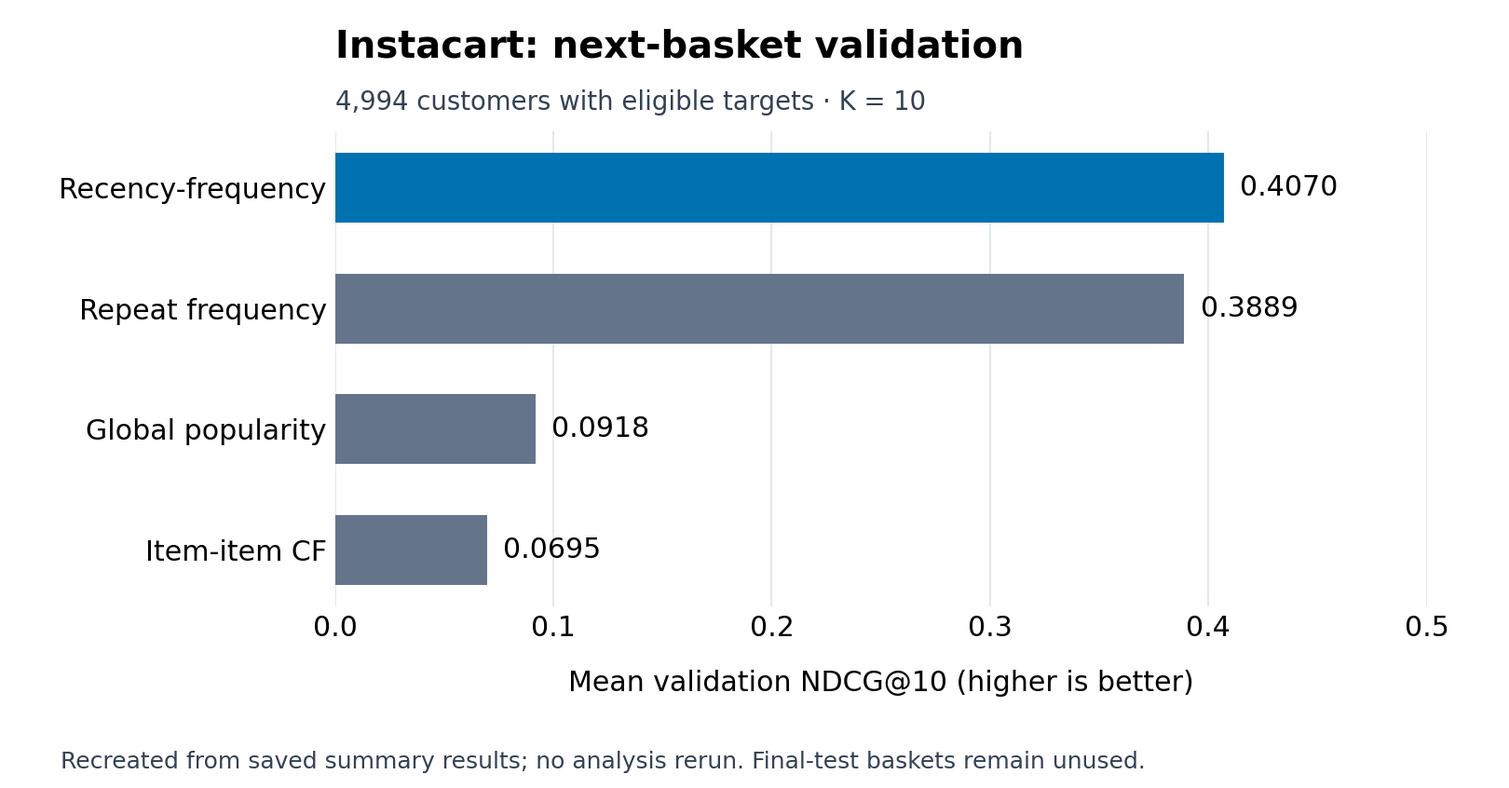
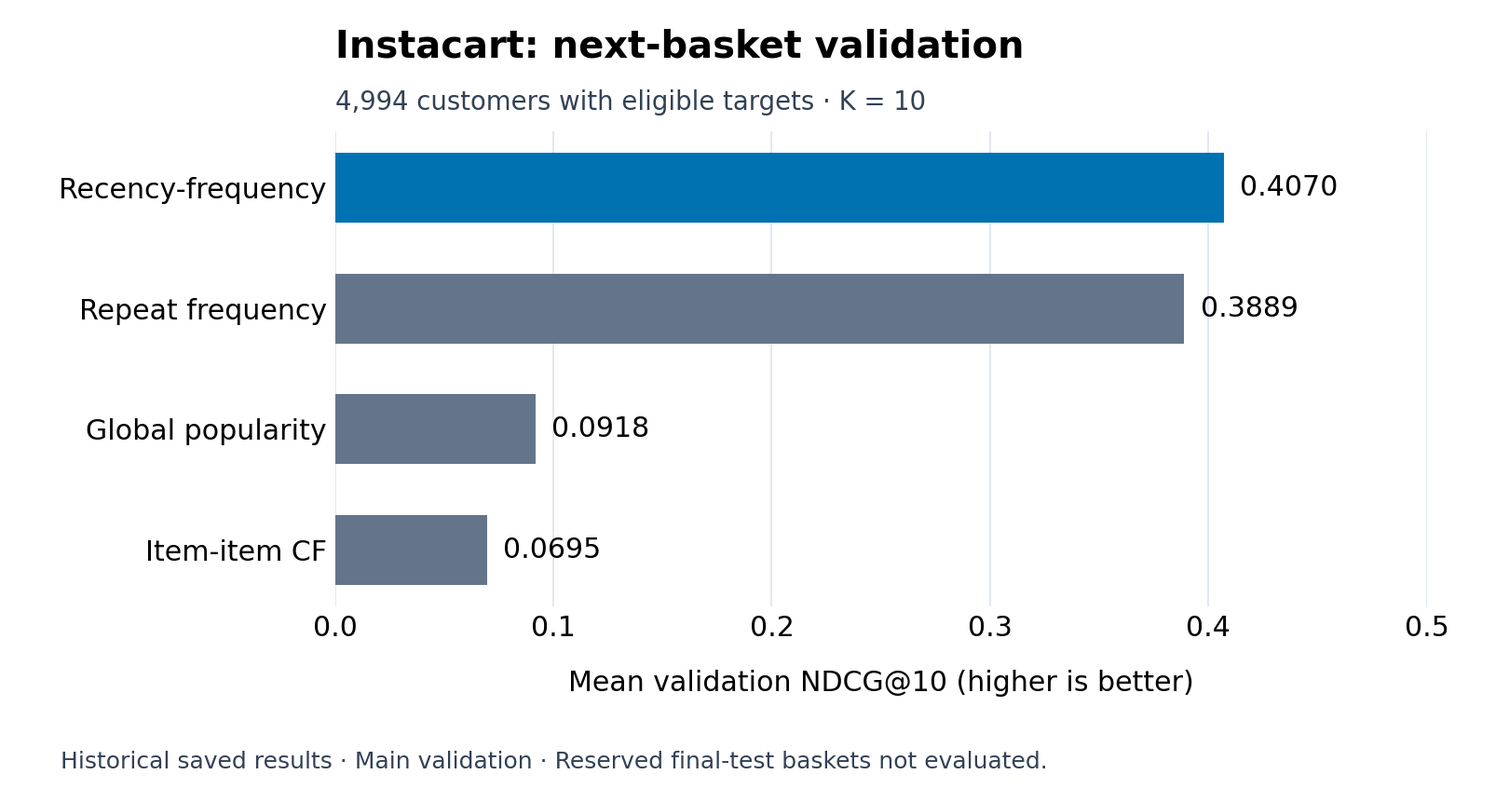
Apply execution verification and finalize research portfolio presentation

Changed region(s): [[0.0309, 0.9527, 0.7716, 0.9835]]

diff --git a/scripts/verify_analysis.py b/scripts/verify_analysis.py
@@ -1,0 +1,71 @@
+"""Execute existing notebook code cells in IPython, without a notebook server.
+
+Run from any directory: python scripts/verify_analysis.py instacart|telco-churn
+Requires the exact private CSVs documented in the project data READMEs.
+Local logs can contain source-row previews; never commit .verification/.
+"""
+import json
+import os
+from pathlib import Path
+import re
+import sys
+
+from IPython.core.interactiveshell import InteractiveShell
+from IPython.utils.capture import capture_output
+
+ROOT = Path(__file__).resolve().parents[1]
+
+
+def check_results(slug, records):
+    text = '\n'.join(r['stdout'] + '\n' + '\n'.join(r['display']) for r in records)
+    if slug == 'telco-churn':
+        expected = [r'Test AUC: 0\.831', r'\[\[904\s+129\]\s*\[169\s+205\]\]',
+                    r'Churned\s+0\.61\s+0\.55\s+0\.58\s+374']
+    else:
+        expected = [r'Selected lambda: 0\.25',
+                    r'0\.25\s+0\.2719\s+0\.3530\s+0\.2645\s+0\.4070\s+0\.3464',
+                    r'0\.00\s+0\.2594\s+0\.3359\s+0\.2518\s+0\.3889',
+                    r'Global popularity\s+0\.0668\s+0\.0685\s+0\.0602',
+                    r'NDCG@10: 0\.0918',
+                    r'Item-item minus recency-frequency NDCG: -0\.3375',
+                    r'95% interval: -0\.3455 to -0\.3296']
+    for pattern in expected:
+        if not re.search(pattern, text):
+            raise AssertionError(f'Result differs from published precision: {pattern}')
+
+
+def main(slug):
+    if slug not in ('instacart', 'telco-churn'):
+        raise SystemExit('Choose instacart or telco-churn')
+    filenames = (['Telco-Customer-Churn.csv'] if slug == 'telco-churn' else
+                 ['aisles.csv', 'departments.csv', 'order_products.csv', 'orders.csv', 'products.csv'])
+    for filename in filenames:
+        path = ROOT / 'projects' / slug / 'data' / filename
+        if not path.exists():
+            raise FileNotFoundError(f'Provide the exact source CSV: {path}')
+    project = ROOT / 'projects' / slug
+    os.chdir(project)
+    notebook = json.loads((project / 'analysis.ipynb').read_text())
+    shell = InteractiveShell.instance()
+    records = []
+    output = ROOT / '.verification'
+    output.mkdir(exist_ok=True)
+    for i, cell in enumerate(notebook['cells']):
+        if cell['cell_type'] != 'code':
+            continue
+        with capture_output() as cap:
+            result = shell.run_cell(''.join(cell['source']), store_history=False)
+        records.append({'cell': i, 'stdout': cap.stdout, 'stderr': cap.stderr,
+                        'display': [o.data.get('text/plain', '') for o in cap.outputs]})
+        (output / f'{slug}.json').write_text(json.dumps(records, indent=2))
+        if result.error_before_exec or result.error_in_exec:
+            raise RuntimeError(f'Cell {i} failed; inspect local .verification/{slug}.json')
+        print(f'{slug}: cell {i} passed', flush=True)
+    check_results(slug, records)
+    print(f'{slug}: all code cells passed; selected results match published precision.')
+
+
+if __name__ == '__main__':
+    if len(sys.argv) != 2:
+        raise SystemExit('Usage: python scripts/verify_analysis.py instacart|telco-churn')
+    main(sys.argv[1])

diff --git a/scripts/render_portfolio_figures.py b/scripts/render_portfolio_figures.py
@@ -52,7 +52,7 @@ def instacart_figure():
     ax.tick_params(axis='both', length=0)
     for spine in ax.spines.values():
         spine.set_visible(False)
-    fig.text(0.04, 0.025, 'Recreated from saved summary results; no analysis rerun. Final-test baskets remain unused.', fontsize=10, color='#334155')
+    fig.text(0.04, 0.025, 'Historical saved results · Main validation · Reserved final-test baskets not evaluated.', fontsize=10, color='#334155')
     fig.tight_layout(rect=(0.02, 0.07, 0.98, 1))
     target = ROOT / 'projects/instacart/figures/validation-ndcg.png'
     target.parent.mkdir(exist_ok=True)

diff --git a/projects/instacart/README.md b/projects/instacart/README.md
@@ -1,14 +1,18 @@
 # Instacart next-basket recommendations
 
-[Notebook with saved outputs](analysis.ipynb) · [Portfolio](../../README.md) · [Provenance](../../PROVENANCE.md)
+[Notebook with saved outputs](analysis.ipynb) · [Portfolio](../../README.md) · [Authorship](../../README.md#authorship-and-ai-assistance)
 
-## Question and study scope
+## Research Question
 
-Can purchase history support useful next-basket reminders, and can related products add discovery? This individual coursework project is a **validation study**, using five course-supplied tables: `aisles.csv`, `departments.csv`, `order_products.csv`, `orders.csv`, and `products.csv`. The exact upstream dataset release and course sampling procedure are not documented in the supplied package.
+Can purchase history support useful next-basket reminders, and can related products add discovery? This is a **validation study**.
+
+## Data
+
+The analysis uses five course-supplied tables: `aisles.csv`, `departments.csv`, `order_products.csv`, `orders.csv`, and `products.csv`. The exact upstream dataset release and course sampling procedure are not documented in the supplied package.
 
 The saved main split contains **5,000 customers**, **33,230 fitting orders**, **328,487 fitting product rows**, and **24,367 candidate products**. The target baskets contain 50,638 item occurrences, including 1,270 products absent from fitting history (counted as occurrences across baskets).
 
-## Design and metrics
+## Methods
 
 For each customer, the latest order labeled `prior` is the validation basket; earlier orders form the fitting history. Customers must have at least three fitting orders. Orders labeled `train` are reserved final-test baskets and remain unused. This is a within-customer time ordering, not a single calendar-date holdout.
 
@@ -24,18 +28,18 @@ A candidate product must appear somewhere in the fitting history. It can be new 
 
 Six customers have no eligible target products. Their ranking metrics are undefined and excluded, leaving **4,994 customers** for precision, eligible recall, F1, and NDCG. Their full-basket recall is zero, so all **5,000** remain in that average. These are customer averages; the repeat/discovery hit rates below instead pool item occurrences.
 
-## Methods and selection
+### Models and selection
 
 - **Global popularity:** rank products by the number of different fitting-history customers who bought them; use the same list for everyone.
 - **Repeat frequency:** rank a customer's previously purchased products by purchase count.
 - **Recency-frequency:** rank by `frequency × exp(−lambda × orders_since_last)`. The existing grid search selects **lambda=0.25** using validation NDCG@10; 0.30 is nearly tied.
 - **Item-item collaborative filtering:** use Jaccard overlap of fitting-history customer sets, requiring at least five shared purchasers and retaining up to 25 neighbors per product. Weight neighbors using the same frequency/recency rule. These fixed settings were not optimized.
 
-## Saved main validation results
+## Findings
 
 ![Validation NDCG at 10: recency-frequency 0.4070, repeat frequency 0.3889, global popularity 0.0918, and item-item CF 0.0695.](figures/validation-ndcg.png)
 
-*Figure recreated for this portfolio from the notebook's saved four-method comparison. No analysis was rerun; no uncertainty intervals are depicted.*
+*Validation NDCG@10, recreated from historical saved results; 4,994 customers with eligible targets. No uncertainty intervals are shown.*
 
 | Model | Precision@10 | Eligible recall@10 | F1@10 | NDCG@10 | Full-basket recall@10 |
 |---|---:|---:|---:|---:|---:|
@@ -46,7 +50,7 @@ Six customers have no eligible target products. Their ranking metrics are undefi
 
 The paired bootstrap resamples customer-level score differences with replacement (2,000 draws; seed 446), using the 2.5th and 97.5th percentiles. Recency-frequency's NDCG advantage over repeat frequency is **0.0181**, with a saved **95% interval of 0.0157–0.0205**, above the course practical margin of 0.01. These are conditional validation comparisons: the same validation data selected lambda, so the intervals do not account for model-selection uncertainty.
 
-## Sensitivity and discovery
+### Sensitivity and discovery
 
 The notebook checks K=5/10/15/20, nearby recency weights, short-list filling, history length, product popularity, and an earlier target basket. Recency-frequency leads the three baselines on the four ranking metrics at every tested K. At K=10, filling short lists changes its NDCG from 0.4070 to 0.4075.
 
@@ -54,24 +58,21 @@ The earlier-basket check rebuilds fitting histories one order earlier and keeps 
 
 Repeat purchases are products previously bought by the customer; discovery products are known in the fitting catalog but new to that customer. Recency-frequency recovers **50.76%** of repeat-purchase item occurrences and **0%** of discovery occurrences. The tested item-item model recovers **3.88%** of eligible discovery occurrences but substantially reduces overall ranking quality. Its NDCG difference from recency-frequency is **−0.3375** (saved 95% interval **−0.3455 to −0.3296**). This supports retaining the simpler restocking baseline for this study, not rejecting every collaborative-filtering method.
 
-## Limitations and future work
+## Limitations
 
 The sample and candidate rule constrain generalization. Personalized repeat rules cannot discover new-to-customer products, and no method can recommend products absent from fitting. Reusing validation customers for selection and comparison limits uncertainty claims. No deployment, intervention, or causal effect was evaluated.
 
-**Future work, not completed:** obtain the exact authorized files, reproduce the existing validation study, and design a final evaluation using the reserved baskets without tuning on them. No final-test result is reported here.
+**Future work, not completed:** design a final evaluation using the reserved baskets without tuning on them. No final-test result is reported here.
 
-## Reproduce
+## How to Run
 
-The exact CSV files were unavailable in the accessible local folders checked; this portfolio copy has not been executed end to end. See [data requirements](data/README.md). Do not substitute a public version and assume identical results.
-
-From the repository root, on macOS/Linux:
+Place the original course CSVs in this project's `data/` directory; see [required files](data/README.md). From the repository root, create an environment using the Python 3.12 version used for execution verification:
 
 ```bash
-python3 -m venv .venv
+python3.12 -m venv .venv
 source .venv/bin/activate
-python -m pip install -r projects/instacart/requirements.txt
-cd projects/instacart
-python -m jupyterlab analysis.ipynb
+python -m pip install -r requirements-tested.txt
+python scripts/verify_analysis.py instacart
 ```
 
-Place all five CSV files in `projects/instacart/data/` before opening Jupyter. The notebook's working directory must be `projects/instacart/`. Run cells from top to bottom only after checking authorization and source identity. Versions are unpinned and these setup commands are provided instructions, not a claim of successful execution.
+The script executes code cells through IPython without replacing notebook outputs. See [verification details](../../VERIFICATION.md) for checked results, local-log handling, and the unverified interactive Jupyter route.

diff --git a/PROVENANCE.md b/PROVENANCE.md
@@ -1,42 +1,24 @@
-# Provenance and verification
+# Provenance
 
-## Coursework sources
+These are individual coursework projects by Edwige Mpore Rwagasana. See the [authorship and AI disclosure](README.md#authorship-and-ai-assistance).
 
-**Edwige Mpore Rwagasana** completed these as individual coursework projects. Course scaffolding remains acknowledged; individual completion is not a claim of independently writing every line.
-
-| Project | Original source filename | Origin visible in the source |
+| Project | Source notebook | Coursework context |
 |---|---|---|
 | Instacart | `Instacart_Project_code.ipynb` | Course checkpoints, validation counts, and Jaccard examples |
-| Telco | `Edwige_Churn_Prediction_Assignment_1 (1).ipynb` | BUAI 435 assignment template and specified modeling workflow |
+| Telco | `Edwige_Churn_Prediction_Assignment_1 (1).ipynb` | BUAI 435 assignment template and modeling workflow |
 
-The exact extent of course-provided code and AI assistance during the original analyses still needs author clarification before application submission. Dataset filenames are documented in each project's `data/README.md`; the package does not establish the exact upstream releases or redistribution rights.
+## Presentation
 
-## Presentation changes
+Local `data/` paths replace the original Drive setup. Student identifiers, interactive display metadata, installation logs, and source-row previews were removed from sharing copies. The reports omit grading instructions and completed placeholders, use consistent headings, and explain evaluation metrics and selected GLM coefficients.
 
-Initial sharing preparation replaced Drive setup and input paths with local `data/` paths, removed identity and interactive display metadata, and cleared setup/loader outputs containing logs or source-row previews. It retained analytical code and text/PNG results and supplied documentation and unpinned dependency lists. The initial upload added missing introductory cell IDs.
+Analytical code, model settings, and historical numerical outputs are preserved. The Instacart figure uses saved NDCG results; the Telco figure is the original saved ROC image. The presentation script regenerates these figures without executing the analyses:
 
-This polish pass rewrote project guides and notebook summaries, removed grading/submission instructions and completed comment-only placeholders, corrected headings, and added explanations of validation denominators and saved GLM coefficients. It removed private Drive identifiers and unrelated selection history from documentation. No executable analysis code, model settings, numerical outputs, or existing output images were changed in this pass.
+```bash
+python scripts/render_portfolio_figures.py
+```
 
-The Instacart chart was recreated from saved four-method NDCG@10 results; the Telco ROC PNG was extracted unchanged from its saved output. `python scripts/render_portfolio_figures.py` regenerates these presentation assets without executing either notebook. No new model or experiment was added.
+## Data and verification
 
-## AI assistance
+The exact upstream dataset releases and redistribution rights are not established. Raw data are excluded; no redistribution license is asserted over source data or course material. Each project's data README lists the required filenames.
 
-AI assisted with source review, documentation, notebook presentation, results-figure preparation, and repository checks. Original-analysis assistance and the division between course scaffolding and the author's code require the clarification noted above. Added coefficient interpretations summarize saved estimates, not a newly fitted model.
-
-## Verification performed during this update
-
-- Reviewed methods, sample counts, metrics, and selected coefficient estimates against code and historical outputs. No material numerical discrepancy was found in the project README results.
-- Validated notebook format and unique cell IDs; parsed Python syntax without executing analysis cells.
-- Compared executable cells and saved outputs against the pre-polish repository revision; they are unchanged.
-- Checked relative Markdown links, anchors, and image references; inspected the two README figures.
-- Checked for remaining homework placeholders, private paths, student-ID/credential patterns, and accidental unrelated changes.
-
-These checks are static review, not numerical replication. Validation/plotting tools ran in a new temporary environment (Python 3.9.6, nbformat 5.10.4, matplotlib 3.9.4); this is **not** a tested environment for either full analysis. Project dependencies remain unpinned.
-
-## Execution blocker and future work
-
-The exact source CSVs were not found in the repository, supplied package, or accessible local folders searched. Some local folders could not be searched because of OS access restrictions. No substitute dataset was downloaded. Neither notebook was executed end to end during this update; historical outputs do not demonstrate a fresh successful run.
-
-Missing files are `aisles.csv`, `departments.csv`, `order_products.csv`, `orders.csv`, and `products.csv` under `projects/instacart/data/`, plus `Telco-Customer-Churn.csv` under `projects/telco-churn/data/`. Exact authorized files are needed to test an isolated analysis environment, compare regenerated results, and record tested versions. The original environment was not recorded.
-
-Final-test evaluation for Instacart and additional Telco validation remain future work. No deployment, intervention benefit, or causal effect is claimed. No redistribution license is asserted over course material or source data.
+[VERIFICATION.md](VERIFICATION.md) distinguishes the historical notebook outputs from subsequent IPython execution and records the current structural checks. Instacart's reserved final-test baskets remain unused.

diff --git a/projects/telco-churn/README.md b/projects/telco-churn/README.md
@@ -1,12 +1,16 @@
 # Telco customer churn
 
-[Notebook with saved outputs](analysis.ipynb) · [Portfolio](../../README.md) · [Provenance](../../PROVENANCE.md)
+[Notebook with saved outputs](analysis.ipynb) · [Portfolio](../../README.md) · [Authorship](../../README.md#authorship-and-ai-assistance)
 
-## Question and study scope
+## Research Question
 
-How well do selected customer characteristics distinguish churners from customers who stay? This individual BUAI 435 coursework project uses the supplied `Telco-Customer-Churn.csv`. The exact upstream release is not documented in the package. After converting `TotalCharges` to numeric and dropping missing values, the saved analysis contains **7,032 customers** and an overall churn rate of **26.58%**.
+How well do selected customer characteristics distinguish churners from customers who stay?
 
-## Statistical specification
+## Data
+
+This BUAI 435 coursework project uses the supplied `Telco-Customer-Churn.csv`. The exact upstream release is not documented in the package. After converting `TotalCharges` to numeric and dropping missing values, the saved analysis contains **7,032 customers** and an overall churn rate of **26.58%**.
+
+## Methods
 
 The model is a statsmodels **binomial GLM with a logit link and intercept**. Churn is coded Yes=1 and No=0. The notebook uses a stratified 80/20 train/test split with seed 42: **5,625 training** and **1,407 test** customers. Continuous predictors are standardized using training statistics only; indicator variables stay at 0/1.
 
@@ -30,13 +34,13 @@ These are adjusted associations with churn **log odds**, holding the other inclu
 | One-year vs month-to-month contract | −0.9958 | [−1.228, −0.764] | One-year contracts are associated with lower churn log odds. |
 | Two-year vs month-to-month contract | −1.8568 | [−2.229, −1.485] | Two-year contracts are associated with lower churn log odds. |
 
-These coefficients are not probability changes or relative risks. They describe conditional associations in this specification; they do not show that changing a contract or service would cause churn to change. This interpretation was added from the existing regression summary; the model was not refit.
+These coefficients are not probability changes or relative risks. They describe conditional associations in this specification; they do not show that changing a contract or service would cause churn to change.
 
-## Saved held-out results
+## Findings
 
 ![Saved ROC curve for the Telco held-out test set, with AUC 0.831.](figures/test-roc.png)
 
-*Original PNG extracted unchanged from the notebook's saved ROC output for the 1,407-customer test set. The model and curve were not rerun.*
+*Original saved ROC curve for the 1,407-customer held-out test set.*
 
 | Metric | Saved value |
 |---|---:|
@@ -55,24 +59,21 @@ At threshold 0.50:
 
 The model detects **205 of 374** churners: recall is `205 / (205 + 169)`, approximately 0.55. Of **334** flagged customers, **205** actually churn: precision is `205 / (205 + 129)`, approximately 0.61. The **169 missed churners** and **129 false alarms** illustrate the trade-off between missed opportunities for outreach and unnecessary outreach. No intervention costs, recovered revenue, or actual retention benefits were measured. AUC describes discrimination across thresholds, not the success of an outreach campaign.
 
-## Limitations and future work
+## Limitations
 
 The estimates are associations, not causal effects. One random held-out split cannot establish stability across time or other populations. The saved confidence intervals depend on the fitted GLM assumptions; no robust or repeated-sampling analysis was performed. The course-specified threshold does not establish the best operational decision rule.
 
-**Future work, not completed:** reproduce the saved analysis using the exact source data, then assess calibration and temporal/external stability if suitable authorized data become available. Any later threshold selection should use separate validation data rather than repeatedly tuning on this test set.
+**Future work, not completed:** assess calibration and temporal/external stability if suitable authorized data become available. Any later threshold selection should use separate validation data rather than repeatedly tuning on this test set.
 
-## Reproduce
+## How to Run
 
-The exact source file was unavailable in the accessible local folders checked. This portfolio copy has not been executed end to end. See [data requirements](data/README.md); a similarly named dataset is not a verified substitute.
-
-From the repository root, on macOS/Linux:
+Place the original course CSVs in this project's `data/` directory; see [required files](data/README.md). From the repository root, create an environment using the Python 3.12 version used for execution verification:
 
 ```bash
-python3 -m venv .venv
+python3.12 -m venv .venv
 source .venv/bin/activate
-python -m pip install -r projects/telco-churn/requirements.txt
-cd projects/telco-churn
-python -m jupyterlab analysis.ipynb
+python -m pip install -r requirements-tested.txt
+python scripts/verify_analysis.py telco-churn
 ```
 
-Place the authorized source file at `projects/telco-churn/data/Telco-Customer-Churn.csv`. The notebook's working directory must be `projects/telco-churn/`. Run cells from top to bottom after checking source identity and authorization. Versions remain unpinned; these are setup instructions, not a tested environment claim.
+The script executes code cells through IPython without replacing notebook outputs. See [verification details](../../VERIFICATION.md) for checked results, local-log handling, and the unverified interactive Jupyter route.

diff --git a/README.md b/README.md
@@ -2,25 +2,17 @@
 
 **Edwige Mpore Rwagasana**
 
-I use data to investigate questions, compare methods, and explain what the evidence can—and cannot—support. These two individual coursework projects demonstrate data preparation, statistical analysis, model evaluation, and communication of findings.
+I use data to investigate questions, compare methods, and explain findings and their limits. These two individual coursework projects demonstrate data preparation, statistical analysis, and model evaluation.
 
-| Project | Research question | Methods | Results from saved outputs |
+| Project | Research question | Methods | Key result |
 |---|---|---|---|
-| **[Instacart recommendations](projects/instacart/README.md)** · [Notebook](projects/instacart/analysis.ipynb) | Can shopping histories predict the next basket, and can related products improve discovery? | Time-ordered validation; popularity and personal baselines; item-item collaborative filtering; paired bootstrap; sensitivity checks | **Validation**, K=10: recency-frequency F1 **0.2645**, NDCG **0.4070**. Reserved final-test baskets were not evaluated. |
-| **[Telco churn](projects/telco-churn/README.md)** · [Notebook](projects/telco-churn/analysis.ipynb) | How well do selected customer characteristics distinguish churners from customers who stay? | Exploratory analysis; binomial GLM; training-only scaling; stratified held-out evaluation | **Held-out test**, n=1,407: ROC AUC **0.831**; churn recall **0.55** at threshold 0.50. |
+| [Instacart recommendations](projects/instacart/README.md) · [Analysis](projects/instacart/analysis.ipynb) | Can shopping histories predict the next basket and support discovery? | Time-ordered validation, recommendation baselines, item-item filtering, paired bootstrap | **Validation:** recency-frequency NDCG@10 **0.4070**, F1@10 **0.2645** |
+| [Telco churn](projects/telco-churn/README.md) · [Analysis](projects/telco-churn/analysis.ipynb) | How well do customer characteristics distinguish churners from customers who stay? | Binomial GLM, training-only scaling, held-out evaluation | **Test, n=1,407:** AUC **0.831**, churn recall **0.55** at threshold 0.50 |
 
-## Where to start
+Start with Instacart for the evaluation workflow, then Telco for statistical interpretation. The notebooks retain historical outputs; subsequent IPython execution reproduced selected reported results. See [verification and environment limits](VERIFICATION.md).
 
-Start with the **Instacart project README** for the fuller evaluation workflow, including uncertainty, sensitivity checks, and a method that did not outperform the baseline. Then read **Telco** for an interpretable statistical model and the trade-off between false positives and missed churners. Each README includes a results figure; the notebooks contain the code and historical outputs behind the findings.
+## Authorship and AI assistance
 
-## Coursework and AI assistance
+I used AI to draft code, which I refined. I analyzed the results and wrote the reports.
 
-Both projects originated as individual coursework. Telco uses a course assignment template; Instacart builds on course checkpoints and examples. Course scaffolding is acknowledged rather than presented as entirely original code.
-
-AI assisted with portfolio file review, documentation, notebook presentation, and a figure drawn from saved results. The extent of AI assistance and course-provided code in the original analyses still needs clarification before application submission. See [provenance](PROVENANCE.md) for the source notebooks and presentation changes.
-
-## Reproduction status
-
-The portfolio notebooks retain their saved outputs. Structure, Python syntax, documentation links, and reported summary results have been checked; **neither notebook has been executed end to end during this portfolio update**. The exact authorized source datasets were not found in the accessible local folders checked. Project [Instacart setup](projects/instacart/README.md#reproduce) and [Telco setup](projects/telco-churn/README.md#reproduce) instructions list the required files and working directories.
-
-Dependencies remain unpinned because no complete analysis environment has been tested. A similarly named public dataset may differ from the course sample. Results describe these coursework samples, not deployment, causal effects, or measured business impact. No redistribution license is asserted over course material or source data.
+Both projects use course materials: Telco began with an assignment template, and Instacart builds on course checkpoints and examples. See [provenance](PROVENANCE.md).

diff --git a/VERIFICATION.md b/VERIFICATION.md
@@ -1,0 +1,38 @@
+# Verification
+
+## Subsequent IPython execution
+
+The supplied execution record reports that the original CSV files were retrieved from my Drive, matching the source filenames used in the original notebooks. No raw data or source-file fingerprints are distributed. Matching source locations and reproduced results support sample identity, but do not establish an upstream release or redistribution license.
+
+Both notebooks' unchanged Python code cells ran in order in separate fresh IPython processes in a new isolated Python 3.12 environment. All code cells completed without execution errors and embedded data/split assertions passed. The Jupyter/nbclient kernel could not start because of the environment's transport restrictions; this is an in-process code-execution verification, not a verified Jupyter UI/kernel session. The notebook files retain their historical saved outputs.
+
+## Checked results
+
+| Analysis | Reproduced result |
+|---|---|
+| Telco | AUC 0.831 at three decimals; confusion matrix [[904, 129], [169, 205]]; precision 0.61, recall 0.55, F1 0.58 for churn at two decimals |
+| Instacart | Selected lambda 0.25; recency-frequency validation precision 0.2719, eligible recall 0.3530, F1 0.2645, NDCG 0.4070 at four decimals |
+| Instacart comparisons | Repeat-frequency NDCG 0.3889; global-popularity NDCG 0.0918; item-item minus recency-frequency NDCG −0.3375, interval [−0.3455, −0.3296] at four decimals |
+
+These checks reproduce selected published summaries, not every historical output byte. Display formatting and plots may differ by library version. No model, feature set, threshold, or hyperparameter was changed. No extra validation split or final-test evaluation was performed.
+
+## Reproduce the check
+
+Install [requirements-tested.txt](requirements-tested.txt), supply the original CSVs at the paths in each project's data README, then run:
+
+```bash
+python scripts/verify_analysis.py telco-churn
+python scripts/verify_analysis.py instacart
+```
+
+The script checks required filenames before execution and selected result strings afterwards. It cannot establish source identity from filenames alone; use the original course files. It captures local stdout/stderr and display text in `.verification/`, excluded by `.gitignore`. Do not commit these logs or the raw data. Tested package versions describe the new verification environment, not the original coursework environment. The JupyterLab package is installed, but interactive server/kernel operation was not verified.
+
+## Presentation review
+
+This repository update applied the supplied execution record; it did not rerun either analysis. Both notebooks were validated for notebook format and unique cell IDs, and Python syntax was checked. Executable analysis cells and saved outputs were compared with the earlier PR revision and remain unchanged. Documentation links, image references, reported summaries, and the final diff were reviewed. The two results figures were inspected for legibility.
+
+## Environment and scope
+
+[requirements-tested.txt](requirements-tested.txt) records the supplied Python 3.12 execution environment, not the historical coursework environment. No new package installation or analytical execution was performed as part of this presentation review.
+
+For an interactive session, activate the environment, change to `projects/instacart/` or `projects/telco-churn/`, then run `python -m jupyterlab` and open `analysis.ipynb`. This route was not verified in the execution environment. Instacart final-test evaluation remains future work; the reserved baskets were not used.

diff --git a/projects/instacart/data/README.md b/projects/instacart/data/README.md
@@ -10,6 +10,6 @@ Obtain the exact authorized course files and place them in this directory:
 
 These filenames come from the notebook's local loading code. The supplied package does not identify the exact upstream release or course sampling procedure. No download URL or redistribution license is asserted. A public dataset with a similar name is not a verified substitute.
 
-The files were not found in the accessible local folders searched during portfolio preparation; end-to-end reproduction remains blocked. Raw data are omitted and CSV files are ignored by Git. Keep source data private unless you have explicit redistribution permission.
+Raw CSV files are excluded from the repository and ignored by Git. See [execution verification](../../../VERIFICATION.md) for the source-data check.
 
-See the [project README](../README.md#reproduce) for setup and working-directory instructions.
+See the [project README](../README.md#how-to-run) for setup and working-directory instructions.

diff --git a/projects/telco-churn/data/README.md b/projects/telco-churn/data/README.md
@@ -6,6 +6,6 @@ Obtain the exact authorized course files and place them in this directory:
 
 These filenames come from the notebook's local loading code. The supplied package does not identify the exact upstream release. No download URL or redistribution license is asserted. A public dataset with a similar name is not a verified substitute.
 
-The files were not found in the accessible local folders searched during portfolio preparation; end-to-end reproduction remains blocked. Raw data are omitted and CSV files are ignored by Git. Keep source data private unless you have explicit redistribution permission.
+Raw CSV files are excluded from the repository and ignored by Git. See [execution verification](../../../VERIFICATION.md) for the source-data check.
 
-See the [project README](../README.md#reproduce) for setup and working-directory instructions.
+See the [project README](../README.md#how-to-run) for setup and working-directory instructions.
